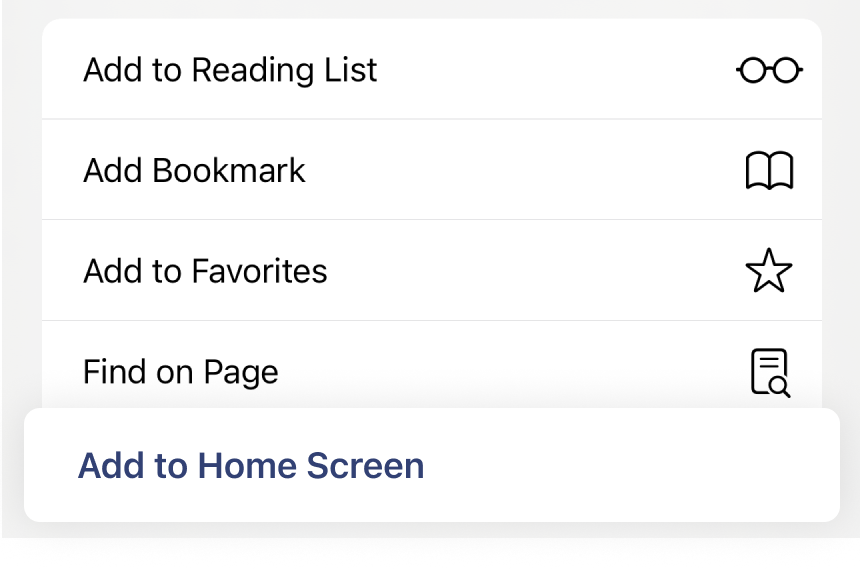
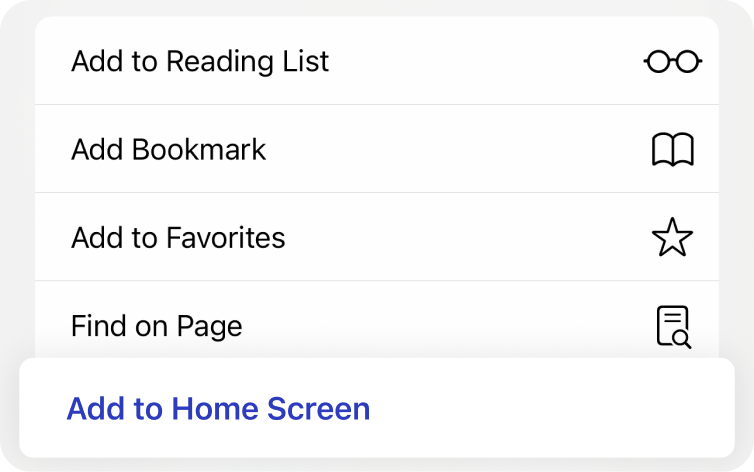
chore: optimize landing and create

diff --git a/src/pages/landing/index.tsx b/src/pages/landing/index.tsx
@@ -132,6 +132,7 @@ export default function Landing() {
           marginTop="16px"
           textAlign="left"
           marginBottom="48px"
+          color="rgba(0, 0, 0, 0.6)"
         >
           Your first crypto is on us.<br />
           Oh, and no gas fees.<br />
@@ -227,19 +228,19 @@ export default function Landing() {
             >
               <Image src={AddHomeIMG} />
             </Box>
-            <Box fontSize="24px" fontWeight="700" marginBottom="14px" padding="0 32px">
+            <Box fontSize="24px" fontWeight="500" lineHeight="1" padding="0 32px" marginBottom="40px" marginTop="5px" color="#161F36">
               Add to home screen to continue...
             </Box>
-            <Box fontWeight="700" fontSize="16px" paddingBottom="14px" paddingLeft="32px" paddingRight="32px">
-              <Box fontSize="28px" fontWeight="500">01</Box>
-              <Box fontSize="18px" fontWeight="400">Tap Share icon at toolbar</Box>
+            <Box fontSize="16px" paddingBottom="14px" paddingLeft="32px" paddingRight="32px">
+              <Box fontSize="28px" fontWeight="500" lineHeight="1">01</Box>
+              <Box fontSize="18px" fontWeight="400" lineHeight="22.5px" marginTop="5px" color="#161F36">Tap Share icon at toolbar</Box>
             </Box>
             <Box width="100%">
               <Image src={Toolbar1} />
             </Box>
-            <Box fontWeight="700" fontSize="16px" paddingBottom="14px" paddingLeft="32px" paddingRight="32px">
-              <Box fontSize="28px" fontWeight="500">02</Box>
-              <Box fontSize="18px" fontWeight="400">Tap “Add to Homescreen”</Box>
+            <Box fontSize="16px" paddingBottom="14px" paddingLeft="32px" paddingRight="32px" marginTop="24px">
+              <Box fontSize="28px" fontWeight="500" lineHeight="1">02</Box>
+              <Box fontSize="18px" fontWeight="400" lineHeight="22.5px" marginTop="5px" color="#161F36">Tap “Add to Homescreen”</Box>
             </Box>
             <Box width="100%">
               <Image src={Toolbar2} />

diff --git a/src/pages/create/AddPasskey/index.tsx b/src/pages/create/AddPasskey/index.tsx
@@ -9,12 +9,13 @@ export default function AddPasskey({ addingPasskey, onNext}: any) {
   return (
     <Box width="100%" padding="30px" height={innerHeight - 64} display="flex" alignItems="flex-start" justifyContent="center" flexDirection="column">
       <Box
-        fontWeight="700"
-        fontSize="24px"
-        lineHeight="30px"
+        fontWeight="500"
+        fontSize="28px"
         marginBottom="8px"
         textAlign="center"
         width="100%"
+        color="#161F36"
+        lineHeight="1"
       >
         Add passkey
       </Box>
@@ -23,11 +24,12 @@ export default function AddPasskey({ addingPasskey, onNext}: any) {
         textAlign="center"
         width="100%"
       >
-        <Box width="100%" fontSize="14px" lineHeight="18px" fontWeight="400" textAlign="center" color="#676B75">
+        <Box width="100%" fontSize="14px" lineHeight="17.5px" fontWeight="400" textAlign="center" color="#676B75">
           Passkeys will be used to sign in to your account in a safer and more secure way. You can always change your passkeys in Settings later.
         </Box>
       </Box>
       <Button width="100%" loading={addingPasskey} disabled={addingPasskey} size="xl" type="gradientBlue" onClick={onNext} minWidth="195px">Add</Button>
+      <Box height="100px" />
     </Box>
   );
 }

diff --git a/src/pages/create/CreateSuccess/index.tsx b/src/pages/create/CreateSuccess/index.tsx
@@ -123,7 +123,7 @@ export default function CreateSuccess({ credential, username, invitationCode }: 
         {!animated && <Image position="absolute" left="0" top="0" width="200px" height="200px" src={ReadyIcon} />}
         <Image position="absolute" left="50px" top="50px" width="100px" height="100px" src={ReadyStaticIcon} />
       </Box>
-      <Box fontWeight="700" fontSize="24px" lineHeight="14px" marginBottom="14px">
+      <Box fontWeight="500" fontSize="24px" lineHeight="14px" marginBottom="14px">
         Your account is ready
       </Box>
       <Box width="100%" marginBottom="50px" marginTop="14px">
@@ -132,11 +132,11 @@ export default function CreateSuccess({ credential, username, invitationCode }: 
         </Box>
       </Box>
       <Box style={{width: "100%"}} >
-        <Button width="100%" size="xl" type="blue" minWidth="195px" onClick={() => navigate('/dashboard')}>
+        <Button width="100%" size="xl" type="gradientBlue" minWidth="195px" onClick={() => navigate('/dashboard')}>
           Let’s go
         </Button>
       </Box>
-      <Box height="60px" />
+      <Box height="100px" />
     </Box>
   );
 }

diff --git a/src/pages/create/InputInviteCode/index.tsx b/src/pages/create/InputInviteCode/index.tsx
@@ -47,7 +47,7 @@ export default function InputInviteCode({value, onChange, codeStatus, checking, 
         />
         <Box mt="1" h="44px" overflow={"hidden"}>
           {checking ? <InputLoading /> : <>
-            {codeStatus === -1 && <Box fontSize="14px" lineHeight="24px" fontWeight="600" onClick={onOpen}>What if I don’t have one?</Box>}
+            {codeStatus === -1 && <Box fontSize="14px" lineHeight="24px" fontWeight="400" color="#2D3CBD" onClick={onOpen}>What if I don’t have one?</Box>}
             {codeStatus === 0 && (
               <Box fontSize="14px" lineHeight="24px" fontWeight="600" color="#0CB700">
                 Looks great! Let’s go
